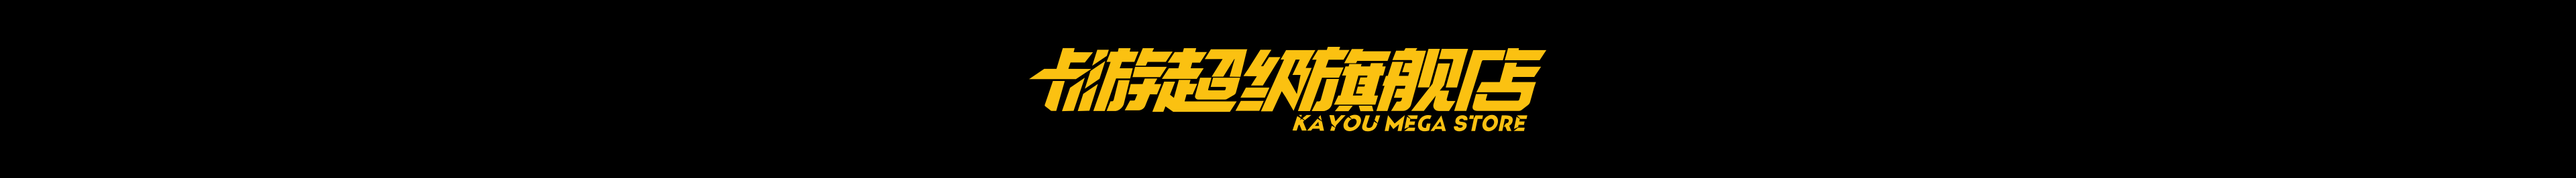
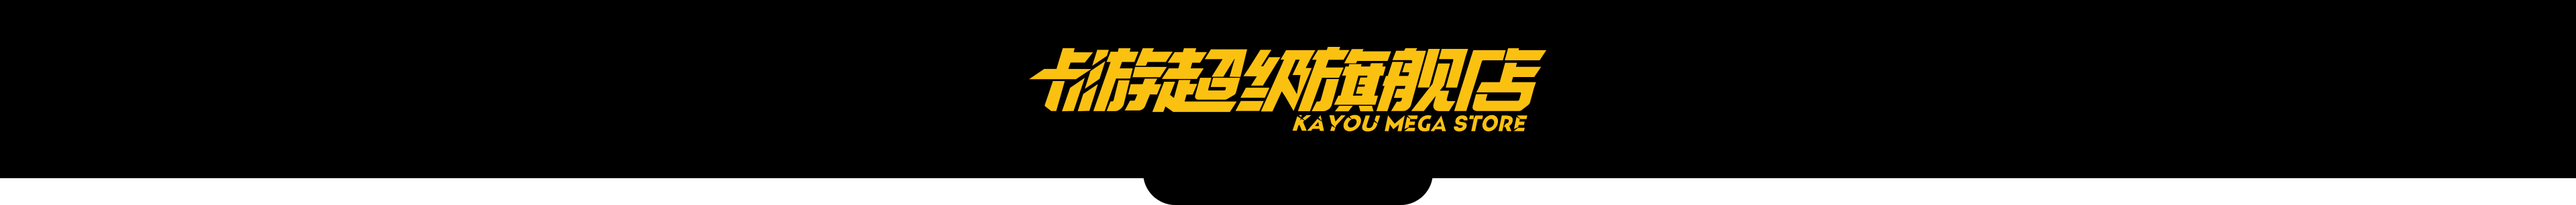
1.导入主页面工具栏上的返回按钮，同步数据按钮，以及工具栏背景的图片。 2.主页面工具栏上增加返回按钮和同步数据按钮，并调整其他UI的布局。 3.实现了点击返回按钮，返回选择门店页面的功能。

Changed region(s): [[0.375, 0.2406, 0.625, 0.7519], [0.5312, 0.8421, 1.0, 1.0], [0.0, 0.8421, 0.4688, 1.0]]

diff --git a/udc/lib/collector_view.dart b/udc/lib/collector_view.dart
@@ -68,6 +68,9 @@ class _CollectorViewState extends State<CollectorView> {
     //     [DeviceOrientation.landscapeLeft, DeviceOrientation.landscapeRight]);
     // SystemChrome.setEnabledSystemUIOverlays([]);
 
+    StoreData? storeData =
+        ModalRoute.of(context)?.settings.arguments as StoreData?;
+
     return Scaffold(
       body: Stack(
         children: [
@@ -85,74 +88,106 @@ class _CollectorViewState extends State<CollectorView> {
             ],
           ),
           _options(),
-          Align(alignment: Alignment.topCenter, child: _titleBar()),
+          Align(
+              alignment: Alignment.topCenter,
+              child: _titleBar(context, storeData)),
         ],
       ),
     );
   }
 
-  Widget _titleBar() {
-    return Stack(
-      children: [
-        Align(
-          alignment: Alignment.topCenter,
-          child: Image.asset("assets/images/ui/title_bar.png"),
-        ),
-        Row(
-          mainAxisSize: MainAxisSize.max,
-          mainAxisAlignment: MainAxisAlignment.spaceBetween,
+  Widget _titleBar(BuildContext context, StoreData? storeData) {
+    return Container(
+        height: MediaQuery.of(context).size.height * 0.2,
+        // color: Colors.lightGreenAccent,
+        child: Stack(
           children: [
+            Image.asset("assets/images/ui/title_bar.png"),
             Row(
+              mainAxisSize: MainAxisSize.min,
+              mainAxisAlignment: MainAxisAlignment.spaceBetween,
               children: [
-                Padding(
-                  padding: EdgeInsets.only(left: 20, top: 12),
-                  child: Column(
-                    children: [
-                      Text("今日客人",
-                          style: TextStyle(
-                              color: Colors.white,
-                              fontSize: 18,
-                              fontWeight: FontWeight.bold)),
-                      SizedBox(height: 6),
-                      Text(DateTime.now().toString().substring(0, 10),
-                          style: TextStyle(color: Colors.white, fontSize: 12)),
-                    ],
-                  ),
-                ),
-                SizedBox(width: 10),
-                Padding(
-                  padding: EdgeInsets.only(top: 10),
-                  child: Column(children: [
-                    Text(
-                      "$_userCount",
-                      style: TextStyle(
-                          color: Color.fromRGBO(255, 214, 0, 1),
-                          fontSize: 32,
-                          fontWeight: FontWeight.w700),
+                Align(
+                    alignment: Alignment.topLeft,
+                    child: Padding(
+                        padding: EdgeInsets.only(top: 9),
+                        child: _back(context))),
+                Row(
+                  children: [
+                    Padding(
+                      padding: EdgeInsets.only(left: 5, top: 12),
+                      child: Column(
+                        children: [
+                          Text("今日客人",
+                              style: TextStyle(
+                                  color: Colors.white,
+                                  fontSize: 18,
+                                  fontWeight: FontWeight.bold)),
+                          SizedBox(height: 6),
+                          Text(DateTime.now().toString().substring(0, 10),
+                              style:
+                                  TextStyle(color: Colors.white, fontSize: 12)),
+                        ],
+                      ),
                     ),
-                    SizedBox(height: 15),
-                  ]),
+                    SizedBox(width: 10),
+                    Padding(
+                      padding: EdgeInsets.only(top: 10),
+                      child: Column(children: [
+                        Text(
+                          "$_userCount",
+                          style: TextStyle(
+                              color: Color.fromRGBO(255, 214, 0, 1),
+                              fontSize: 32,
+                              fontWeight: FontWeight.w700),
+                        ),
+                        SizedBox(height: 15)
+                      ]),
+                    ),
+                    Align(
+                        alignment: Alignment.topCenter,
+                        child: Padding(
+                            padding: EdgeInsets.only(top: 8, left: 30),
+                            child: _syncData())),
+                  ],
                 ),
               ],
             ),
+            Align(
+                alignment: Alignment.topCenter,
+                child: Padding(
+                    padding: EdgeInsets.only(top: 47),
+                    child: Text("${storeData?.name}",
+                        style: TextStyle(color: Colors.white, fontSize: 13)))),
+            Align(
+              alignment: Alignment.topRight,
+              child: Padding(
+                  padding: EdgeInsets.only(top: 0, right: 160), child: _sex()),
+            ),
+            Align(
+              alignment: Alignment.topRight,
+              child: Padding(
+                  padding: EdgeInsets.only(top: 0, right: 0), child: _submit()),
+            ),
           ],
-        ),
-        Align(
-          alignment: Alignment.topRight,
-          child: Padding(
-            padding: EdgeInsets.only(top: 0, right: 160),
-            child: _sex(),
-          ),
-        ),
-        Align(
-          alignment: Alignment.topRight,
-          child: Padding(
-            padding: EdgeInsets.only(top: 0, right: 0),
-            child: _submit(),
-          ),
-        ),
-      ],
-    );
+        ));
+  }
+
+  Widget _back(BuildContext context) {
+    return IconButton(
+        icon: Image.asset("assets/images/ui/back.png", width: 24, height: 24),
+        onPressed: () {
+          Navigator.of(context).pop();
+        });
+  }
+
+  Widget _syncData() {
+    return IconButton(
+        icon: Image.asset("assets/images/ui/synchronous.png",
+            width: 28, height: 28),
+        onPressed: () {
+          print("同步数据");
+        });
   }
 
   Widget _options() {

diff --git a/udc/lib/store_list_view.dart b/udc/lib/store_list_view.dart
@@ -91,9 +91,11 @@ class _StoreListViewState extends State<StoreListView> {
             style: TextStyle(color: Colors.black, fontSize: 20)),
         onPressed: () {
           print("selected store: ${storeData?.id}, ${storeData?.name}");
-          Navigator.of(context).push(MaterialPageRoute(builder: (subContext) {
-            return CollectorView();
-          }));
+          Navigator.of(context).push(MaterialPageRoute(
+              builder: (subContext) {
+                return CollectorView();
+              },
+              settings: RouteSettings(arguments: storeData)));
         });
   }
 
